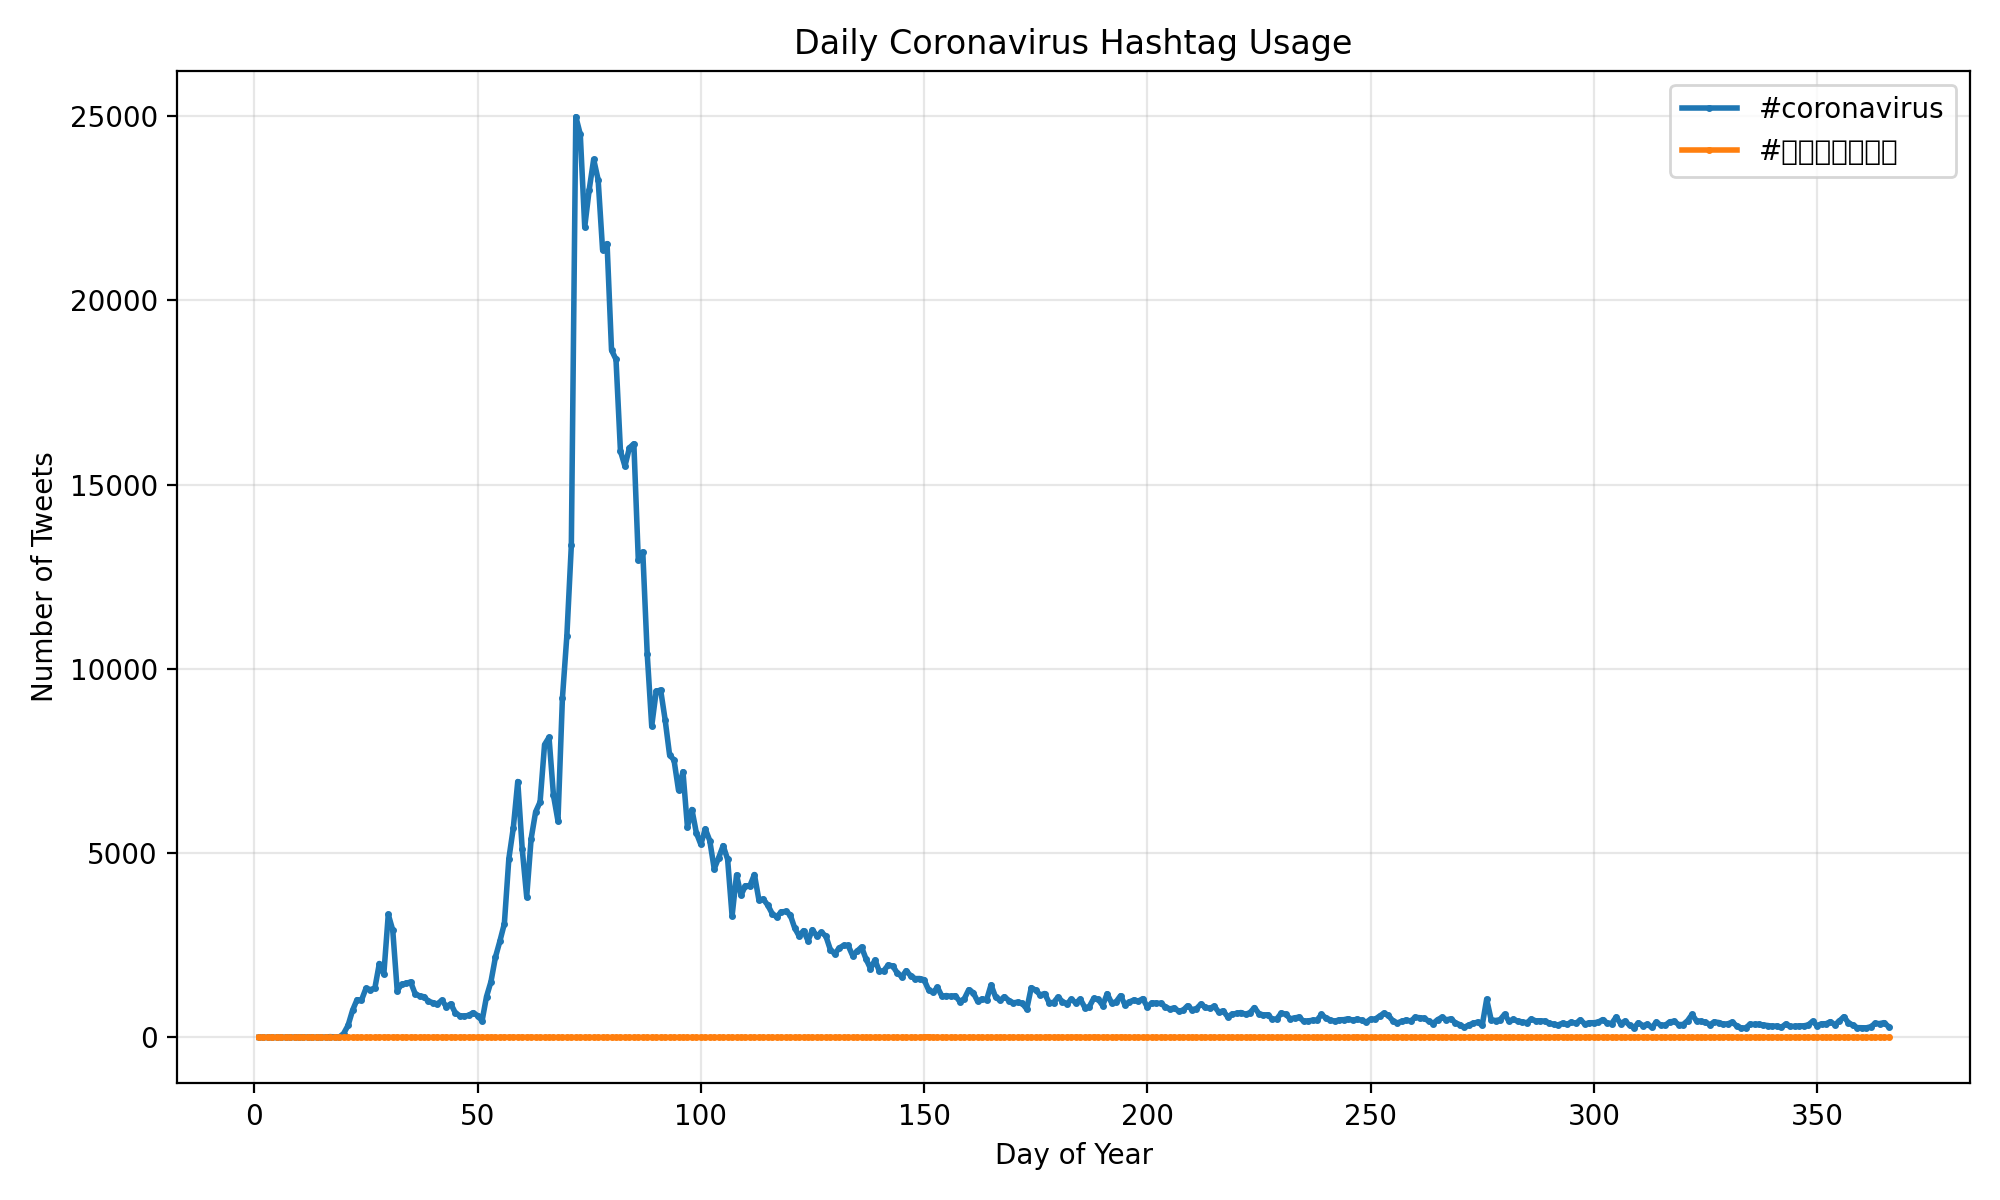
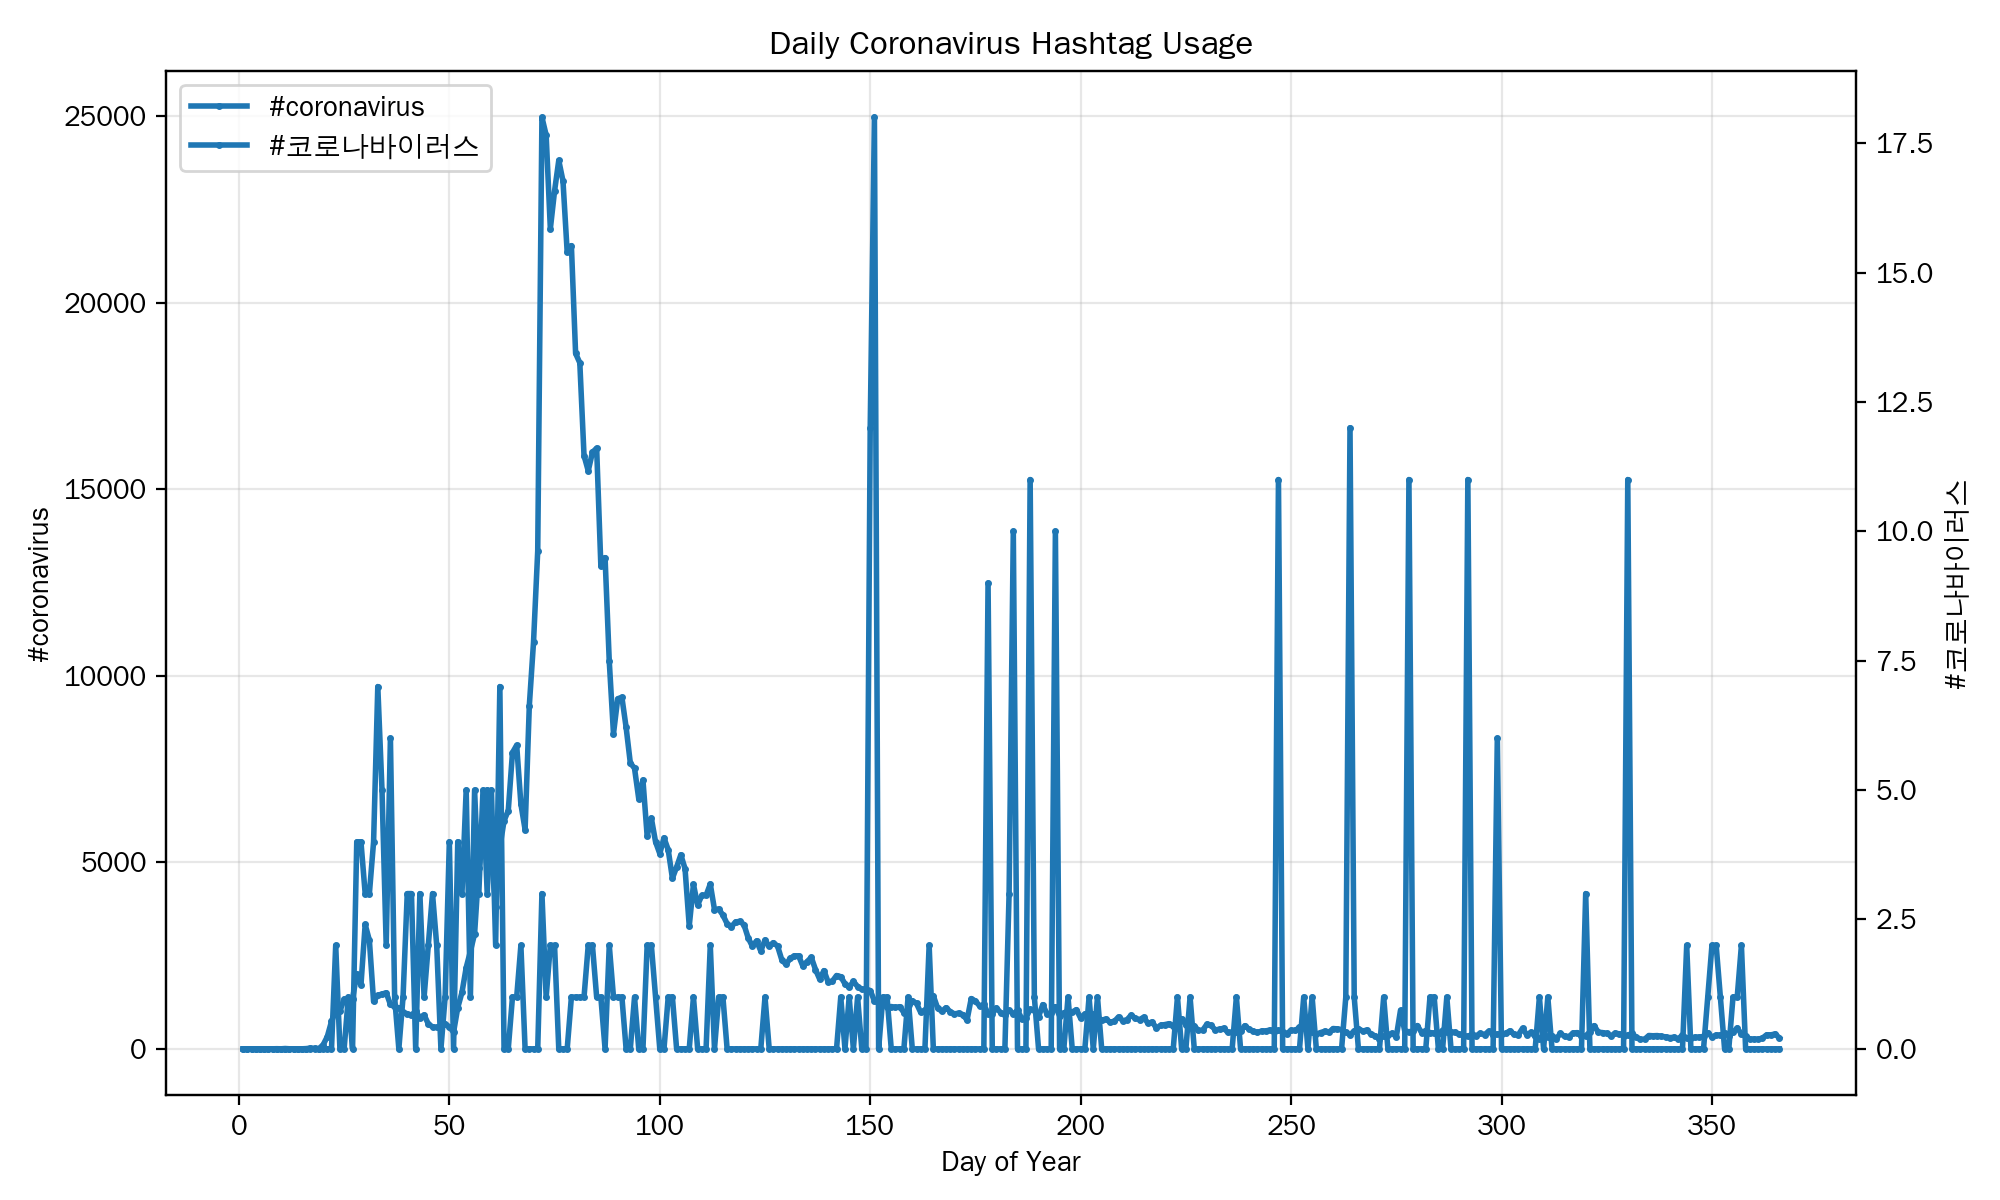
Improve alternative reduce plot

diff --git a/alternative_reduce.py b/alternative_reduce.py
@@ -19,7 +19,6 @@ data = {hashtag: {} for hashtag in args.hashtags}
 for path in sorted(glob.glob('outputs/*.lang')):
     filename = os.path.basename(path)
 
-    # skip the aggregate file
     if filename == 'total.lang':
         continue
 
@@ -40,29 +39,60 @@ for path in sorted(glob.glob('outputs/*.lang')):
             counts.get(hashtag, {}).values()
         )
 
-# create line plot
-plt.figure(figsize=(10, 6))
+# use a font that supports Korean characters
+plt.rcParams['font.family'] = ['UnDotum']
 
-for hashtag in args.hashtags:
-    days = sorted(data[hashtag])
-    values = [data[hashtag][day] for day in days]
+fig, ax1 = plt.subplots(figsize=(10, 6))
 
-    plt.plot(
-        days,
-        values,
-        linewidth=2,
+# first hashtag on left y-axis
+hashtag1 = args.hashtags[0]
+days1 = sorted(data[hashtag1])
+values1 = [data[hashtag1][day] for day in days1]
+
+ax1.plot(
+    days1,
+    values1,
+    marker='.',
+    markersize=3,
+    linewidth=2,
+    label=hashtag1
+)
+
+ax1.set_xlabel('Day of Year')
+ax1.set_ylabel(hashtag1)
+
+# second hashtag on right y-axis
+if len(args.hashtags) > 1:
+    hashtag2 = args.hashtags[1]
+    days2 = sorted(data[hashtag2])
+    values2 = [data[hashtag2][day] for day in days2]
+
+    ax2 = ax1.twinx()
+
+    ax2.plot(
+        days2,
+        values2,
         marker='.',
         markersize=3,
-        label=hashtag
+        linewidth=2,
+        label=hashtag2
     )
 
-plt.xlabel('Day of Year')
-plt.ylabel('Number of Tweets')
-plt.title('Daily Coronavirus Hashtag Usage')
-plt.legend()
-plt.grid(True, alpha=0.3)
-plt.tight_layout()
+    ax2.set_ylabel(hashtag2)
 
-# save graph
+# title and grid
+ax1.set_title('Daily Coronavirus Hashtag Usage')
+ax1.grid(True, alpha=0.3)
+
+# combine legends
+lines1, labels1 = ax1.get_legend_handles_labels()
+
+if len(args.hashtags) > 1:
+    lines2, labels2 = ax2.get_legend_handles_labels()
+    ax1.legend(lines1 + lines2, labels1 + labels2, loc='upper left')
+else:
+    ax1.legend()
+
+plt.tight_layout()
 plt.savefig('alternative_reduce.png', dpi=200)
 plt.close()
